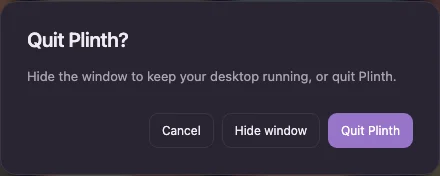
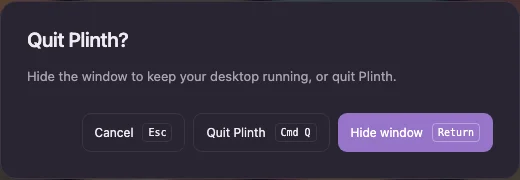
Make Hide window the default quit-dialog action and add shortcuts

diff --git a/src/App.svelte b/src/App.svelte
@@ -19,6 +19,7 @@
  let artworkTarget:HTMLDivElement
  let replacing=false
  let files:HTMLInputElement
+ let hideButton:HTMLButtonElement
  let quitDialog:HTMLDialogElement
  let quitBackdropDown=false
  let modal:HTMLDialogElement
@@ -53,7 +54,7 @@
  async function replace(input:string|File){if(!edit)return;replacing=true;try{const result=await api.replaceArtwork(edit,input);edit={...edit,cover:result.cover,original:result.original}}catch{await api.showAlert('This image could not be used. Choose a supported image file.')}finally{replacing=false}}
  async function chooseReplacement(){if(!api.native){replacementFiles.click();return}try{const paths=await api.chooseImages(true);if(paths.length)await replace(paths[0])}catch{await api.showAlert('The image picker could not be opened.')}}
  async function download(){if(!edit)return;try{await api.downloadArtwork(edit)}catch{await api.showAlert('The original artwork could not be saved. Choose another location.')}}
- function showQuit(){if(!quitDialog?.open)quitDialog?.showModal()}
+ function showQuit(){if(!quitDialog?.open){quitDialog?.showModal();hideButton?.focus()}}
  async function flushSettings(){clearTimeout(saveTimer);await saveQueue;if(settingsDirty){await api.saveSettings(structuredClone(library.settings));settingsDirty=false}}
  async function hideWindow(){try{await flushSettings();quitDialog?.close();if(api.native)await invoke('hide_window')}catch{await api.showAlert('The window could not be hidden.')}}
  async function quitApp(){try{await flushSettings();if(api.native)await invoke('quit_app');else quitDialog.close()}catch{await api.showAlert('Plinth could not quit.')}}
@@ -87,7 +88,7 @@
  })
 </script>
 
- <svelte:window onpointerdown={(e)=>{if(!(e.target instanceof Element)||!e.target.closest('.sort-picker'))sortOpen=false}} onkeydown={(e)=>{if(desktop)return;if(e.key==='Escape'&&sortOpen){sortOpen=false;return}if(e.altKey&&!e.metaKey&&!e.ctrlKey&&(e.code==='KeyQ'||e.code==='KeyW')){if(modal?.open||quitDialog?.open)return;e.preventDefault();const pages=['collection','appearance','settings'];page=pages[(pages.indexOf(page)+(e.code==='KeyQ'?-1:1)+pages.length)%pages.length];return}if((e.metaKey||e.ctrlKey)&&e.key.toLowerCase()==='q'){e.preventDefault();showQuit();return}if((e.metaKey||e.ctrlKey)&&e.key.toLowerCase()==='w'){e.preventDefault();void hideWindow();return}if(e.key==='/' && !(e.target instanceof HTMLInputElement) && !(e.target instanceof HTMLSelectElement)){e.preventDefault();document.querySelector<HTMLInputElement>('.search input')?.focus()}if((e.metaKey||e.ctrlKey)&&e.key==='o'){e.preventDefault();void choose()}if(e.key==='Escape'){if(quitDialog?.open)quitDialog.close();else closeEditor()}}}/>
+ <svelte:window onpointerdown={(e)=>{if(!(e.target instanceof Element)||!e.target.closest('.sort-picker'))sortOpen=false}} onkeydown={(e)=>{if(desktop)return;if(quitDialog?.open){if(e.repeat){e.preventDefault();return}if((e.metaKey||e.ctrlKey)&&e.key.toLowerCase()==='q'){e.preventDefault();void quitApp()}else if((e.metaKey||e.ctrlKey)&&e.key.toLowerCase()==='w'){e.preventDefault();void hideWindow()}else if(e.key==='Escape'){e.preventDefault();quitDialog.close()}return}if(e.repeat&&(e.metaKey||e.ctrlKey)&&e.key.toLowerCase()==='q'){e.preventDefault();return}if(e.key==='Escape'&&sortOpen){sortOpen=false;return}if(e.altKey&&!e.metaKey&&!e.ctrlKey&&(e.code==='KeyQ'||e.code==='KeyW')){if(modal?.open||quitDialog?.open)return;e.preventDefault();const pages=['collection','appearance','settings'];page=pages[(pages.indexOf(page)+(e.code==='KeyQ'?-1:1)+pages.length)%pages.length];return}if((e.metaKey||e.ctrlKey)&&e.key.toLowerCase()==='q'){e.preventDefault();showQuit();return}if((e.metaKey||e.ctrlKey)&&e.key.toLowerCase()==='w'){e.preventDefault();void hideWindow();return}if(e.key==='/' && !(e.target instanceof HTMLInputElement) && !(e.target instanceof HTMLSelectElement)){e.preventDefault();document.querySelector<HTMLInputElement>('.search input')?.focus()}if((e.metaKey||e.ctrlKey)&&e.key==='o'){e.preventDefault();void choose()}if(e.key==='Escape'){if(quitDialog?.open)quitDialog.close();else closeEditor()}}}/>
 {#if desktop}
  <Desktop {library}/>
 {:else}
@@ -146,7 +147,7 @@
  </dialog>
  <dialog class="quit-dialog" bind:this={quitDialog} aria-labelledby="quit-title" onpointerdown={(e)=>quitBackdropDown=e.target===quitDialog&&outsideDialog(quitDialog,e)} onpointerup={(e)=>{if(quitBackdropDown&&e.target===quitDialog&&outsideDialog(quitDialog,e))quitDialog.close();quitBackdropDown=false}}>
   <h2 id="quit-title">Quit Plinth?</h2><p>Hide the window to keep your desktop running, or quit Plinth.</p>
-  <div class="quit-actions"><button onclick={()=>quitDialog.close()}>Cancel</button><button onclick={hideWindow}>Hide window</button><button class="primary" onclick={quitApp}>Quit Plinth</button></div>
+  <div class="quit-actions"><button aria-label="Cancel" aria-keyshortcuts="Escape" onclick={()=>quitDialog.close()}>Cancel<kbd aria-hidden="true">Esc</kbd></button><button aria-label="Quit Plinth" aria-keyshortcuts="Meta+Q Control+Q" onclick={quitApp}>Quit Plinth<kbd aria-hidden="true">Cmd Q</kbd></button><button bind:this={hideButton} class="primary" aria-label="Hide window" aria-keyshortcuts="Enter Meta+W Control+W" title="Hide window (Return or Command-W)" onclick={hideWindow}>Hide window<kbd aria-hidden="true">Return</kbd></button></div>
  </dialog>
 
 {/if}

diff --git a/src/app.css b/src/app.css
@@ -18,9 +18,11 @@ dialog{width:min(510px,calc(100vw - 40px));padding:26px;border:1px solid var(--l
 
 .editor-artwork{position:relative;width:170px;flex:0 0 170px;aspect-ratio:1;border-radius:8px;overflow:hidden;background:var(--paper)}.editor-artwork>img{display:block;width:100%;height:100%;object-fit:contain}.artwork-actions{position:absolute;inset:auto 0 0;display:flex;justify-content:flex-end;gap:5px;padding:20px 7px 7px;background:linear-gradient(transparent,#0008)}.artwork-actions button.icon-only{color:white;background:#24212bd9;border:1px solid #ffffff2b;backdrop-filter:blur(8px)}.artwork-actions button.icon-only:hover{background:#4b415de8}.editor-artwork.replacing>img{opacity:.4}.replacement-progress{position:absolute;inset:40% 0 auto;text-align:center;font-size:12px}
 
-.quit-dialog{width:min(440px,calc(100vw - 40px))}.quit-dialog h2{font-size:20px;margin-bottom:14px}.quit-dialog p{font-size:13px;line-height:1.7;color:var(--muted)}.quit-actions{display:flex;justify-content:flex-end;gap:8px;margin-top:26px}.quit-actions button{font-size:12px;padding:9px 12px}
+.quit-dialog{width:min(520px,calc(100vw - 40px))}.quit-dialog h2{font-size:20px;margin-bottom:14px}.quit-dialog p{font-size:13px;line-height:1.7;color:var(--muted)}.quit-actions{display:flex;justify-content:flex-end;gap:8px;margin-top:26px}.quit-actions button{font-size:12px;padding:9px 12px}
 
 /* Artwork remains the focus; hover actions share the lower edge. */
 .album-dialog{width:min(650px,calc(100vw - 32px))}.editor-top{gap:24px;align-items:center}.editor-artwork{width:300px;flex:0 0 300px}.artwork-actions{inset:auto 0 0;height:36%;display:grid;grid-template-columns:1fr 1fr;gap:0;padding:0;background:linear-gradient(transparent,#0008);opacity:0;transform:translateY(14px);transition:opacity .2s ease,transform .2s ease;pointer-events:none}.editor-artwork:hover .artwork-actions,.editor-artwork:focus-within .artwork-actions{opacity:1;transform:translateY(0);pointer-events:auto}.artwork-actions button.icon-only{width:100%;height:100%;padding:30px 0 10px;border:0;border-radius:0;background:transparent;backdrop-filter:none;color:#ffffffe0;align-items:flex-end}.artwork-actions button.icon-only:hover{background:linear-gradient(transparent,#ffffff0d);color:white}.artwork-actions svg{width:23px;height:23px;filter:drop-shadow(0 1px 3px #0008)}img{-webkit-user-drag:none;user-select:none}.desktop-toggle{min-width:100px;font-size:11px;padding:8px 12px;justify-content:center;text-align:center}.app-shell main{max-width:none;width:100%;padding-inline:24px}.album-grid{width:100%}@media(max-width:700px){.editor-artwork{width:260px;flex-basis:260px}.editor-top{gap:16px}}@media(max-width:520px){.editor-top{flex-direction:column;align-items:stretch}.editor-artwork{width:100%;max-width:320px;flex-basis:auto;margin:0 auto}.app-shell main{padding-inline:16px}}
 
 .sort-picker{position:relative}.sort-trigger{font-size:12px;min-width:128px;justify-content:space-between;border-color:transparent;padding:8px 10px}.sort-trigger svg{width:14px;height:14px}.sort-menu{position:absolute;z-index:30;right:0;top:calc(100% + 7px);width:175px;background:var(--paper-strong);border:1px solid var(--line);border-radius:9px;box-shadow:0 10px 30px #0004;padding:5px}.sort-menu button{width:100%;border:0;justify-content:space-between;border-radius:5px;font-size:12px;padding:10px}.sort-menu button[aria-checked=true]{color:var(--accent)}.sort-menu button:hover{background:var(--paper)}.sort-menu button svg{width:14px;height:14px}@media(max-width:760px){.toolbar-right{flex-wrap:wrap;justify-content:flex-end}.desktop-toggle{min-width:90px}.sort-trigger{min-width:105px}}
+
+.quit-actions{flex-wrap:wrap}.quit-actions kbd{color:inherit;font-size:10px;white-space:nowrap}.quit-actions .primary kbd{border-color:#ffffff55}

diff --git a/tests/app.spec.ts b/tests/app.spec.ts
@@ -76,3 +76,16 @@ test('Option page navigation wraps, desktop toggle uses action labels, internal 
  const image=page.locator('.artwork img').first();await expect(image).toHaveAttribute('draggable','false')
  await page.getByRole('button',{name:'Edit Soft Focus',exact:true}).click();await expect(page.locator('.editor-artwork>img')).toHaveAttribute('draggable','false');await expect(page.locator('.artwork-actions')).toHaveCSS('opacity','0');await page.locator('.editor-artwork').hover();await expect(page.locator('.artwork-actions')).toHaveCSS('opacity','1')
 })
+
+test('quit modal defaults to hide and provides keyboard actions without leaking shortcuts',async({page})=>{
+ await page.goto('/?demo=1')
+ const dialog=page.getByRole('dialog',{name:'Quit Plinth?'})
+ const show=async()=>{await page.keyboard.press('Control+q');await expect(dialog).toBeVisible();await expect(page.getByRole('button',{name:'Hide window',exact:true})).toBeFocused()}
+ await show();await page.keyboard.press('Enter');await expect(dialog).not.toBeVisible()
+ await show();await page.keyboard.press('Escape');await expect(dialog).not.toBeVisible()
+ await show();await page.keyboard.press('Control+w');await expect(dialog).not.toBeVisible()
+ await show();await page.keyboard.press('Control+q');await expect(dialog).not.toBeVisible()
+ await show();await page.keyboard.press('/');await expect(page.getByRole('button',{name:'Hide window',exact:true})).toBeFocused()
+ await page.keyboard.press('Escape')
+ await page.keyboard.down('Control');await page.keyboard.down('q');await page.keyboard.down('q');await expect(dialog).toBeVisible();await page.keyboard.up('q');await page.keyboard.up('Control')
+})

diff --git a/README.md b/README.md
@@ -12,7 +12,7 @@ Plinth is a macOS menu bar app that turns your album artwork into an interactive
 - **Make it yours.** Change columns, spacing, top clearance, scroll space, corner radius, shadow, opacity, hover size, and ordering in the UI. Sort by artist, title, newest date, oldest date, or shuffle; choosing Shuffled again creates a new order. Choose a Mac display or 4K monitor preview with the actual display proportions and a separate layout for each.
 - **Keep your music close.** Click a desktop cover to reveal its album in Apple Music, or open its saved HTTPS link. Edit titles, artists, release dates, links, and desktop visibility in the collection. The editor shows large original artwork, with download and replace controls that fade in on hover; drop a single image onto it to replace it. The collection and desktop use optimized copies.
 - **Hover without switching apps.** Native macOS pointer tracking enlarges covers over exposed desktop areas while another app retains focus. Covers stay behind normal windows; moving over another window clears the hover.
-- **Stay in the menu bar.** Plinth appears in the Dock while its window is open. Closing the window or pressing Command-W hides it and keeps the desktop running. Command-Q offers Hide window, Quit Plinth, and Cancel. Left-click the menu bar icon to open Plinth. Right-click for Open Plinth, Hide desktop / Show desktop, and Quit Plinth.
+- **Stay in the menu bar.** Plinth appears in the Dock while its window is open. Closing the window or pressing Command-W hides it and keeps the desktop running. Command-Q opens a dialog with Hide window selected by default (Return or Command-W), Quit Plinth (Command-Q), and Cancel (Escape). Left-click the menu bar icon to open Plinth. Right-click for Open Plinth, Hide desktop / Show desktop, and Quit Plinth.
 - **Keep everything local.** No account, cloud service, analytics, or encryption setup. The production app does not run an HTTP server or depend on Plash or Python.
 
 ![Live appearance controls](docs/screenshots/appearance.webp)
